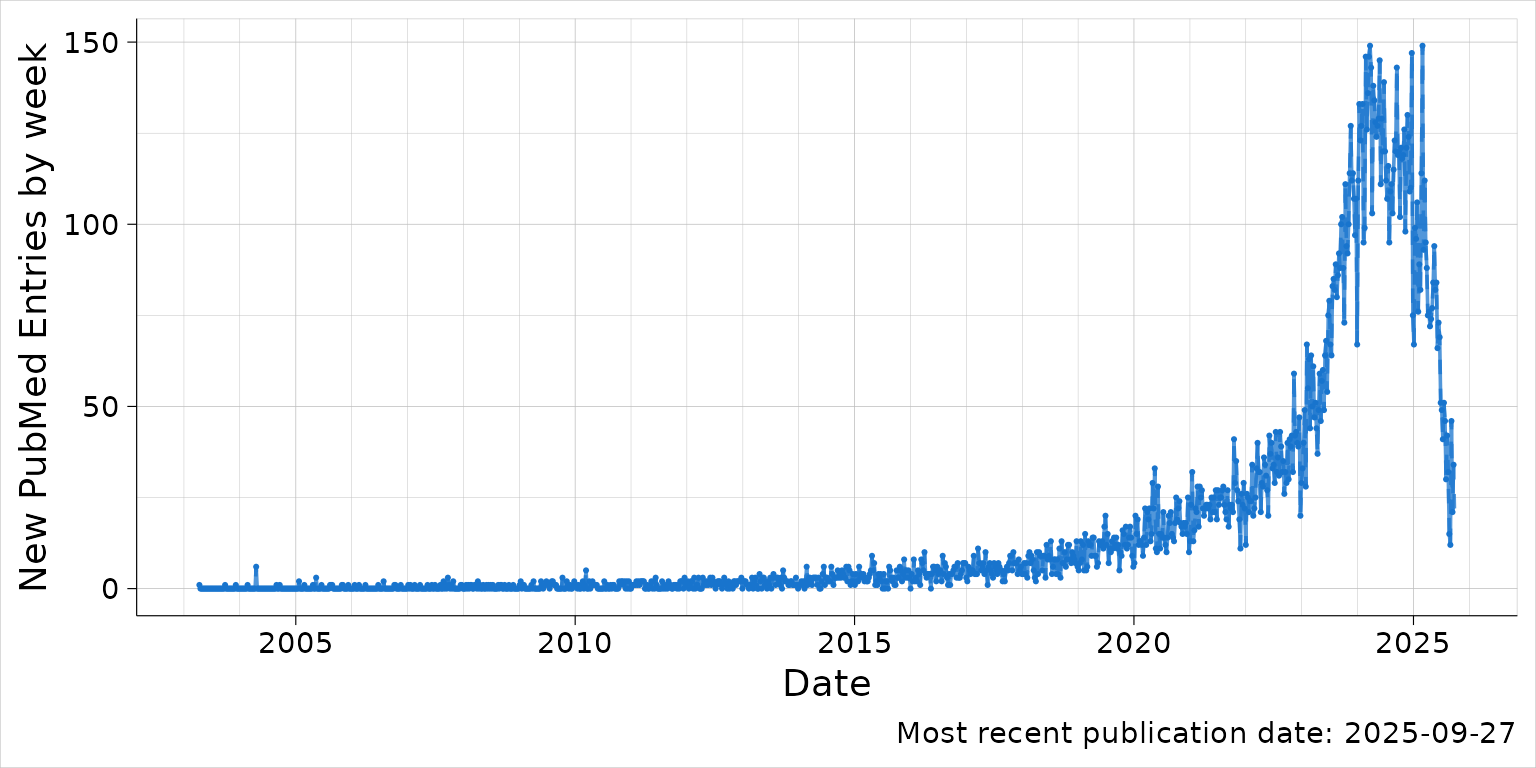
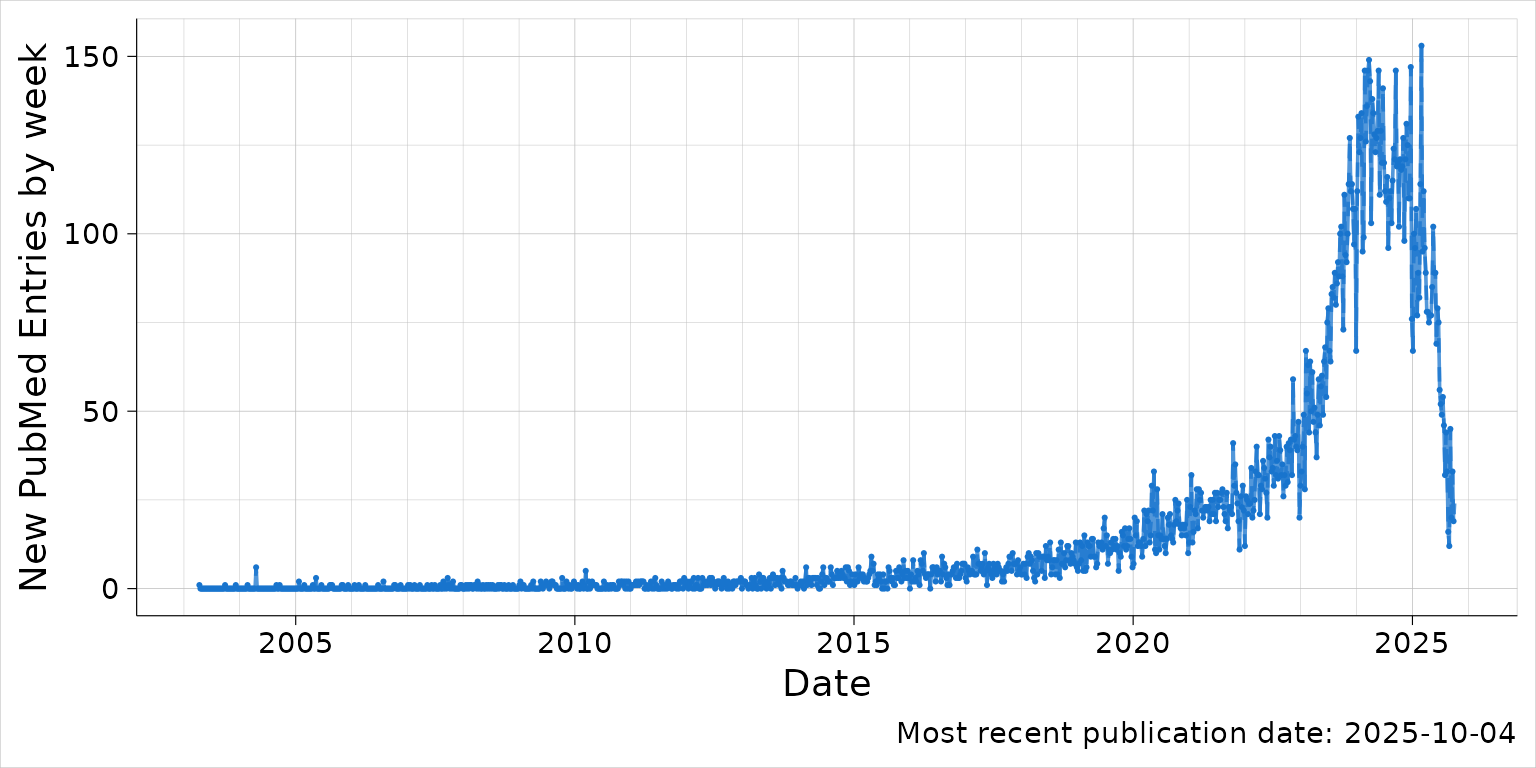
Deploying to gh-pages from @ explodecomputer/PubmedPlot@068eacdf5acdc66ea1c8a3d5640505ac4a8cb4ee 🚀

diff --git a/articles/mr.html b/articles/mr.html
@@ -199,7 +199,7 @@
 <span><span class="co">#&gt; Fetching records 6001 to 6432 </span></span>
 <span><span class="co">#&gt; Searching for year: 2025 </span></span>
 <span><span class="co">#&gt; Search term: "Mendelian randomisation" [tiab] OR "Mendelian randomization" [tiab] AND ("2025/01/01"[dp] : "2025/12/31"[dp]) </span></span>
-<span><span class="co">#&gt; Found 5243 articles matching the search term.</span></span>
+<span><span class="co">#&gt; Found 5366 articles matching the search term.</span></span>
 <span><span class="co">#&gt; Fetching records 1 to 500 </span></span>
 <span><span class="co">#&gt; Fetching records 501 to 1000 </span></span>
 <span><span class="co">#&gt; Fetching records 1001 to 1500 </span></span>
@@ -210,7 +210,7 @@
 <span><span class="co">#&gt; Fetching records 3501 to 4000 </span></span>
 <span><span class="co">#&gt; Fetching records 4001 to 4500 </span></span>
 <span><span class="co">#&gt; Fetching records 4501 to 5000 </span></span>
-<span><span class="co">#&gt; Fetching records 5001 to 5243</span></span>
+<span><span class="co">#&gt; Fetching records 5001 to 5366</span></span>
 <span><span class="co"># write_json(a, "pubmed_abstracts.json", pretty=TRUE)</span></span>
 <span><span class="va">b</span> <span class="op">&lt;-</span> <span class="fu"><a href="../reference/group_by_time_interval.html">group_by_time_interval</a></span><span class="op">(</span><span class="va">a</span><span class="op">)</span></span>
 <span><span class="va">p</span> <span class="op">&lt;-</span> <span class="fu"><a href="../reference/plot_time_interval.html">plot_time_interval</a></span><span class="op">(</span><span class="va">b</span><span class="op">)</span></span></code></pre></div>
